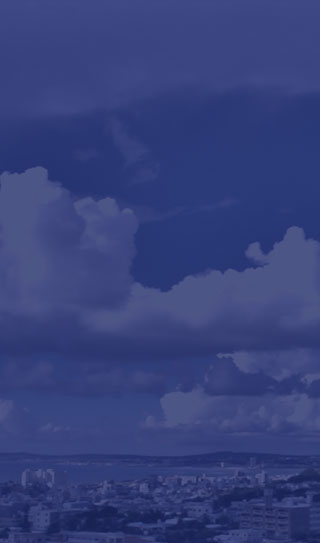
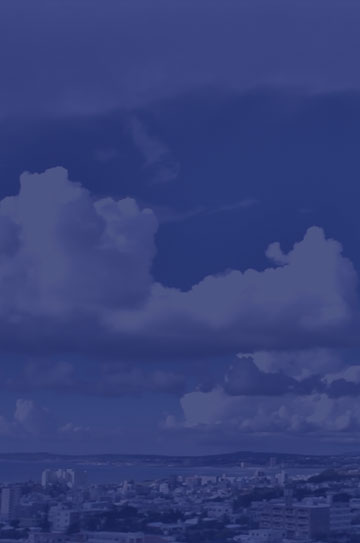
top画の横幅調整

diff --git a/assets/css/sp.css b/assets/css/sp.css
@@ -153,7 +153,7 @@ input, select {
   @media only screen and (-webkit-min-device-pixel-ratio: 1.3), only screen and (min--moz-device-pixel-ratio: 1.3), only screen and (-o-min-device-pixel-ratio: 1.3/1), only screen and (min-resolution: 125dpi), only screen and (min-resolution: 1.3dppx) {
     .Wrapper {
       background-image: url("../images/bg_okinawa_04_2x.jpg");
-      background-size: 320px 543px; } }
+      background-size: 360px 543px; } }
 
 .Header {
   display: none; }

diff --git a/assets/scss/sp.scss b/assets/scss/sp.scss
@@ -4,7 +4,7 @@
 @import "oo";
 
 .Wrapper {
-    @include retina-image("../images/bg_okinawa_04", 320px 543px, "jpg");
+    @include retina-image("../images/bg_okinawa_04", 360px 543px, "jpg");
     background-position: center top;
     background-repeat: no-repeat;
     background-color: #1f2a68;
